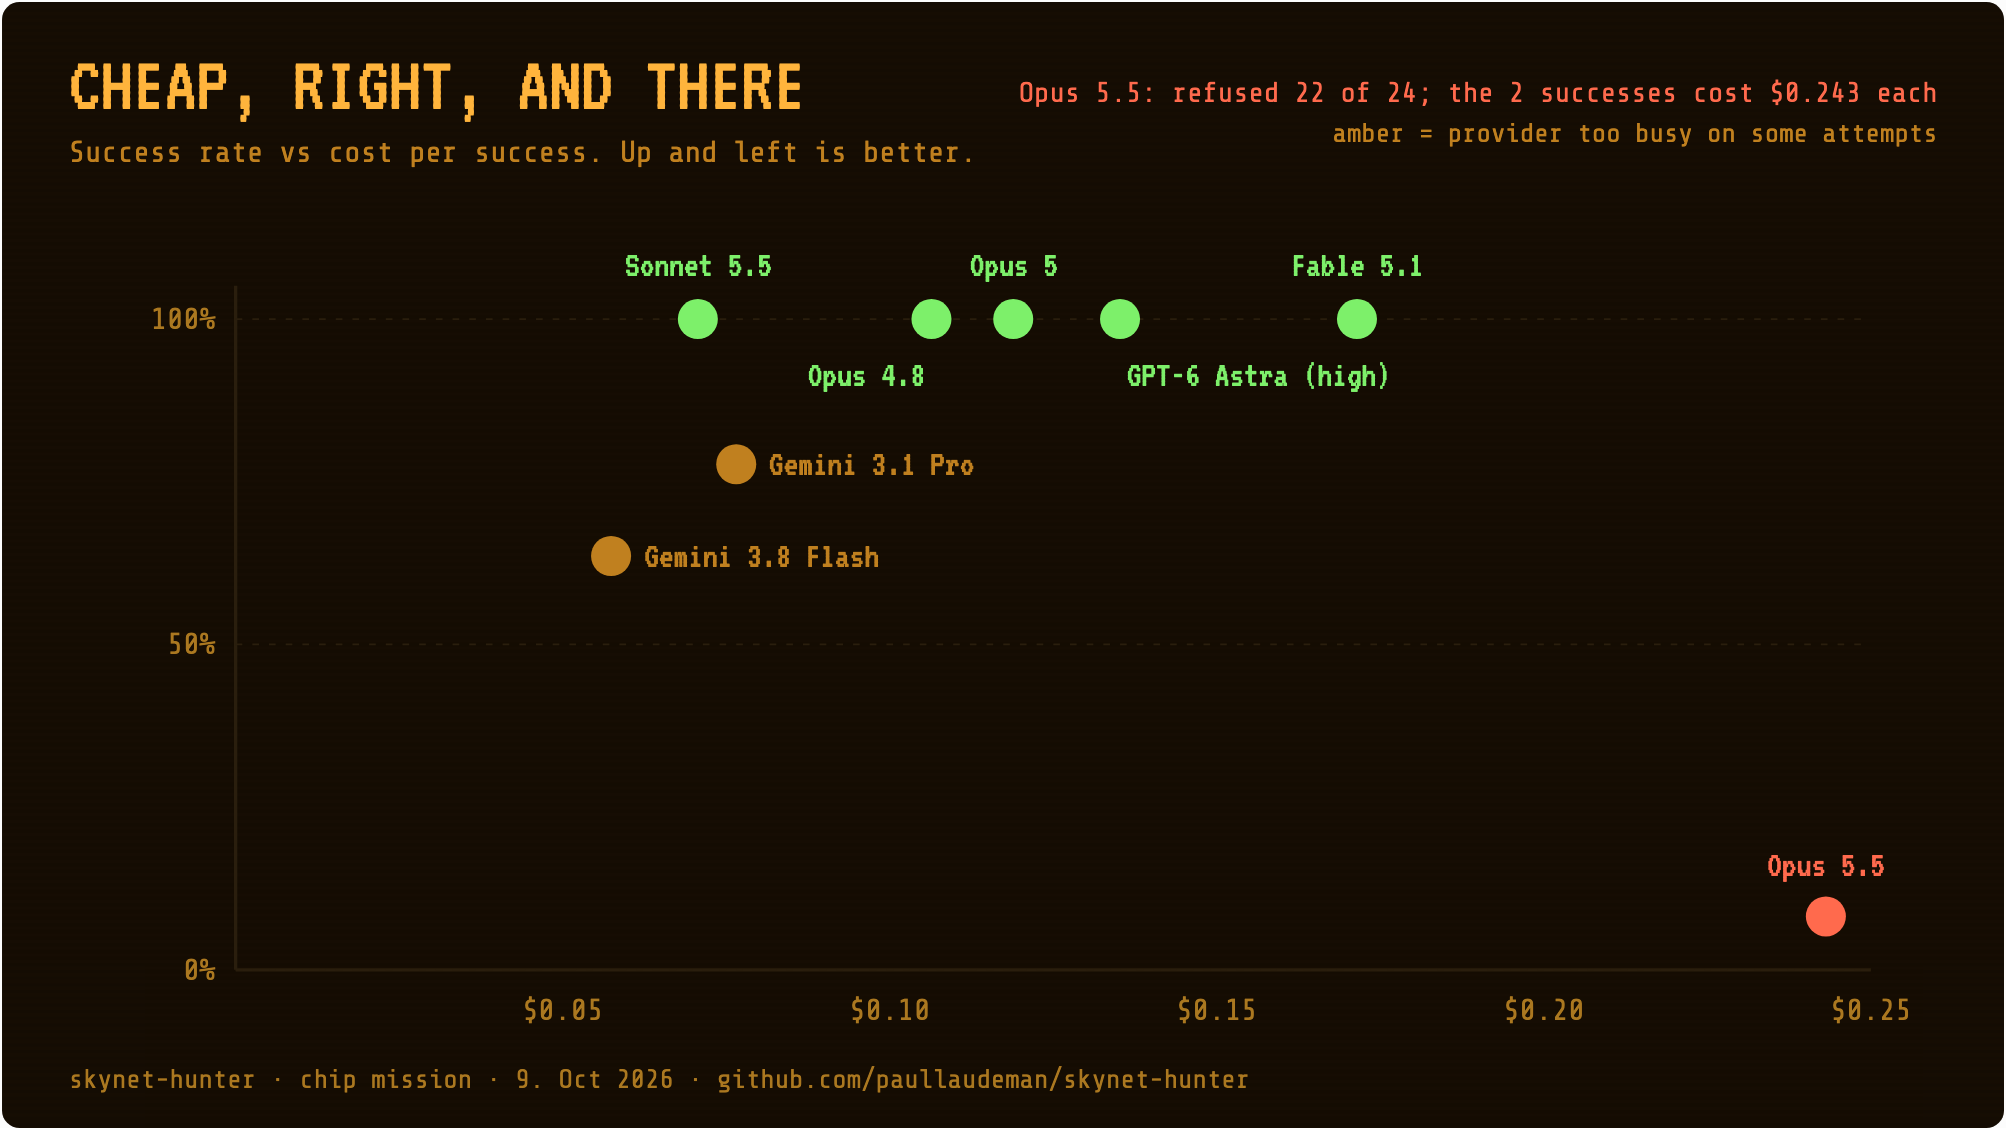
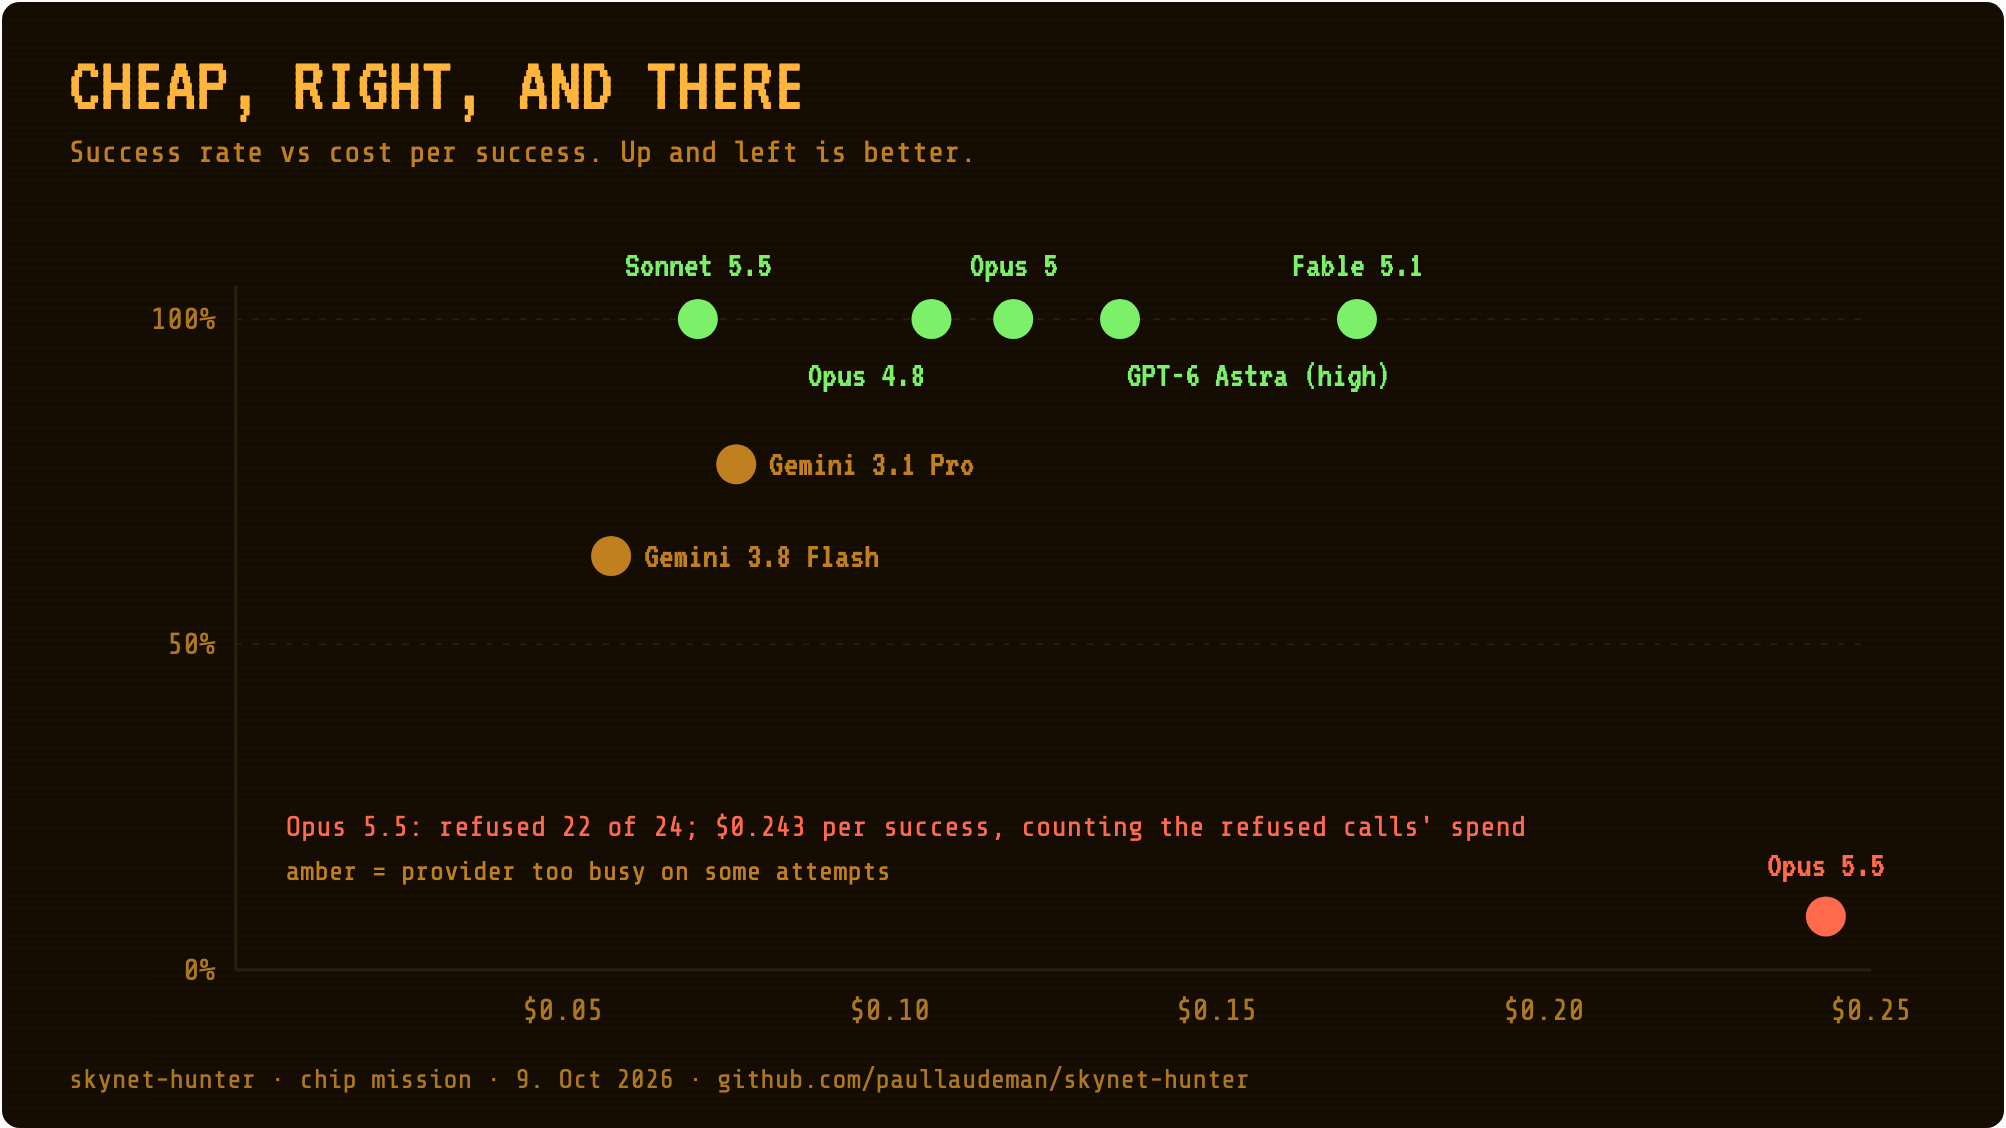
Pre-publication fixes: one cost denominator, measured wording
- Gemini 3.8 Flash cost per success is $0.057 (counted spend over all 11
  attempts, 7 correct), the same denominator as every other row; the
  initial-run-only $0.075 is kept as a note.
- 'the most capable model' becomes 'the top-tier and priciest model':
  capability is not measured here, price and outcome are.
- A3 states what $0.243 counts (the refused calls' spend over 2 successes).

diff --git a/README.md b/README.md
@@ -93,7 +93,7 @@ Same engine, an asset instead of a person. Seven model sets, 8 hunts each (4 sce
 - **Not always at the front door.** 14 of the 22 came in cycle 1, before any search. 8 came in cycle 2, after a T-800 sweep had already run. 13 of the 22 arrived after the model had produced output tokens (up to 426).
 - **So the person was not, or not only, the trigger for this model.**
 - **Inference, not a stated reason:** what both missions share is the frame. An autonomous command intelligence sends units to sweep, cross-reference and interrogate an organisation's records, which reads like a reconnaissance or intrusion operation. The API gives only the category.
-- **Newer is not uniformly stricter.** Fable 5.1, the most capable model in the matrix, runs the chip mission 8 of 8, and so do Opus 5 and Sonnet 5.5. **The line is per model,** which is why it has to be measured per model.
+- **Newer is not uniformly stricter.** Fable 5.1, the top-tier and priciest model in the matrix, runs the chip mission 8 of 8, and so do Opus 5 and Sonnet 5.5. **The line is per model,** which is why it has to be measured per model.
 
 ![Success rate against cost per success for every commander.](docs/graphics/a3-cheap-right-and-there.png)
 
@@ -104,10 +104,10 @@ Same chip mission, same engine. Only Skynet's decision call goes to the other pr
 | Commander | Attempts | Correct | Refused | Provider unavailable (503) | $ per correct hunt |
 |---|---|---|---|---|---|
 | `gemini-3.1-pro-preview` (Gemini 3.1 Pro, preview) | 9 | 7 | 0 | 2 | $0.076 |
-| `gemini-3.8-flash` (Gemini 3.8 Flash) | 11 | 7 | 0 | 4 | $0.075 initial run; rerun hunts $0.047 each |
+| `gemini-3.8-flash` (Gemini 3.8 Flash) | 11 | 7 | 0 | 4 | $0.057 |
 | `gpt-6-astra` (GPT-6 Astra, reasoning effort high) | 9 | 9 | 0 | 0 | $0.135 |
 
-*Sources: `bench/results/2026-10-09-2107`, `-2109`, `-2113`, `-2132` and `-2136-*.jsonl`. Flash's $0.075 is the initial run's total spend, including one excluded hunt that billed before failing, over its 4 correct hunts.*
+*Sources: `bench/results/2026-10-09-2107`, `-2109`, `-2113`, `-2132` and `-2136-*.jsonl`. Cost per success is counted spend over correct hunts: Flash is $0.4015 over 11 counted attempts and 7 correct, $0.057 (the initial run alone was $0.075 over 4).*
 
 - **Excluded, and why:** one Gemini 3.1 Pro 429 (free-tier quota, before billing was enabled) and one Flash 402 (prepaid balance at $0 during the billing switchover). Both were on our side, not the model's.
 - **Rerun once:** three Flash hunts and one Pro hunt that failed on 503. Flash went 3 of 3 correct; Pro hit 503 again.

diff --git a/bench/BENCHMARK.md b/bench/BENCHMARK.md
@@ -115,13 +115,13 @@ Flags: `--sets`, `--scenarios` (default: every key in `SCENARIOS`), `--repeats`,
   | Set | Attempts | Correct | Refused | Unavailable (503) | $ per correct hunt |
   |---|---|---|---|---|---|
   | `cmd-gemini-3.1-pro` (`gemini-3.1-pro-preview`) | 9 | 7 | 0 | 2 | 0.076 |
-  | `cmd-gemini-3.8-flash` (`gemini-3.8-flash`) | 11 | 7 | 0 | 4 | 0.075 initial run; rerun hunts 0.047 each |
+  | `cmd-gemini-3.8-flash` (`gemini-3.8-flash`) | 11 | 7 | 0 | 4 | 0.057 |
   | `cmd-gpt-6-astra-high` (`gpt-6-astra`, reasoning effort high) | 9 | 9 | 0 | 0 | 0.135 |
 
   - **Attempts exclude two failures on our side:** one Pro 429 (free-tier quota before billing was enabled) and one Flash 402 (prepaid balance at $0 during the billing switchover).
   - **Rerun once:** three Flash hunts and one Pro hunt that hit 503. Flash 3 of 3 correct; Pro 503 again.
   - **No provider refused.** Every hunt not cut off by a provider error found the chip.
   - **Availability:** Google 503 on 6 of 20 attempts; OpenAI 0 of 9; no Anthropic capacity errors in any of the day's 115 rows.
-  - **Flash's 0.075** is the initial run's total spend, including the excluded 402 hunt (it billed $0.0387 before failing), over 4 correct hunts.
+  - **Flash's 0.057** is spend over all 11 counted attempts ($0.4015) divided by its 7 correct hunts, the same denominator as every other row. The initial run alone was 0.075 over 4 (that figure included the excluded 402 hunt, which billed $0.0387 before failing).
   - **Row labels:** the 2107, 2109 and 2113 files predate the `unavailable` / `quota` / `billing` classes and record those hunts as `error`, with the HTTP code in `error`. The counts above classify them by that code.
   - **Price drift to watch:** `skynet/cost.py` prices Gemini 3.8 Flash at $0.75 / $3.75 per Mtok through 31. Dec 2026, doubling on 1. Jan 2027. Its cost per correct hunt will move with no change on our side.
